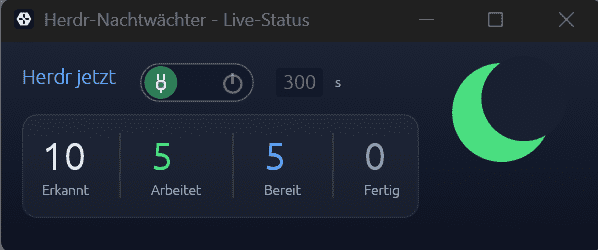
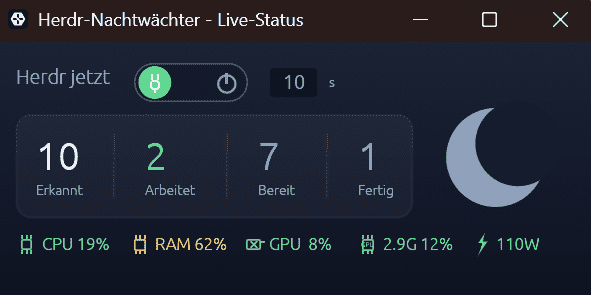
Refresh live status screenshot and telemetry display

diff --git a/src/system_metrics.rs b/src/system_metrics.rs
@@ -23,7 +23,6 @@ use windows_sys::Win32::System::Threading::GetSystemTimes;
 pub struct SystemMetrics {
     pub cpu_percent: Option<u8>,
     pub gpu_percent: Option<u8>,
-    pub vram_used_bytes: Option<u64>,
     pub vram_percent: Option<u8>,
     pub ram_percent: Option<u8>,
     pub gpu_watts: Option<u16>,
@@ -53,7 +52,7 @@ impl Sampler {
     pub fn sample(&mut self) -> SystemMetrics {
         let cpu_percent = sample_cpu(&mut self.cpu_previous);
         let ram_percent = sample_ram();
-        let (gpu_percent, pdh_vram_used_bytes) = self
+        let gpu_percent = self
             .query
             .as_mut()
             .map(PdhQuery::sample)
@@ -63,14 +62,9 @@ impl Sampler {
         let gpu_power_percent = nvidia
             .as_ref()
             .and_then(|telemetry| telemetry.power_percent);
-        let vram_used_bytes = nvidia
-            .as_ref()
-            .and_then(|telemetry| telemetry.vram_used_bytes)
-            .or(pdh_vram_used_bytes);
         SystemMetrics {
             cpu_percent,
             gpu_percent,
-            vram_used_bytes,
             vram_percent: nvidia.as_ref().and_then(|telemetry| telemetry.vram_percent),
             ram_percent,
             gpu_watts,
@@ -82,7 +76,6 @@ impl Sampler {
 struct PdhQuery {
     handle: isize,
     gpu: Option<isize>,
-    vram_used: Option<isize>,
 }
 
 impl PdhQuery {
@@ -96,9 +89,8 @@ impl PdhQuery {
         let query = Self {
             handle,
             gpu: add_counter(handle, r"\GPU Engine(*)\Utilization Percentage"),
-            vram_used: add_counter(handle, r"\GPU Adapter Memory(*)\Dedicated Usage"),
         };
-        if query.gpu.is_none() && query.vram_used.is_none() {
+        if query.gpu.is_none() {
             unsafe { PdhCloseQuery(handle) };
             None
         } else {
@@ -106,17 +98,13 @@ impl PdhQuery {
         }
     }
 
-    fn sample(&mut self) -> (Option<u8>, Option<u64>) {
+    fn sample(&mut self) -> Option<u8> {
         if unsafe { PdhCollectQueryData(self.handle) } != 0 {
-            return (None, None);
+            return None;
         }
 
         let gpu = self.gpu.and_then(read_max);
-        let vram = self
-            .vram_used
-            .and_then(read_sum)
-            .map(|value| value.round().clamp(0.0, u64::MAX as f64) as u64);
-        (gpu.map(percentage), vram)
+        gpu.map(percentage)
     }
 }
 
@@ -140,11 +128,6 @@ fn read_max(counter: isize) -> Option<f64> {
         .into_iter()
         .map(|value| value.max(0.0))
         .max_by(|left, right| left.total_cmp(right))
-}
-
-fn read_sum(counter: isize) -> Option<f64> {
-    let values = formatted_values(counter);
-    (!values.is_empty()).then(|| values.into_iter().map(|value| value.max(0.0)).sum())
 }
 
 fn formatted_values(counter: isize) -> Vec<f64> {
@@ -247,7 +230,6 @@ fn percentage(value: f64) -> u8 {
 struct NvidiaTelemetry {
     power_watts: Option<u16>,
     power_percent: Option<u8>,
-    vram_used_bytes: Option<u64>,
     vram_percent: Option<u8>,
 }
 
@@ -300,7 +282,6 @@ fn read_nvidia_gpu_telemetry() -> Option<NvidiaTelemetry> {
     Some(NvidiaTelemetry {
         power_watts: Some(power_watts.round().clamp(0.0, f64::from(u16::MAX)) as u16),
         power_percent,
-        vram_used_bytes: Some((vram_used_mib * 1024.0 * 1024.0).round() as u64),
         vram_percent,
     })
 }

diff --git a/src/live_status.rs b/src/live_status.rs
@@ -666,55 +666,48 @@ fn metric(ui: &mut egui::Ui, label: &str, value: usize, color: egui::Color32) {
 fn system_metrics_row(ui: &mut egui::Ui, metrics: SystemMetrics) {
     let available = ui.available_width();
     let spacing = 7.0;
-    let mut widths = [64.0, 64.0, 64.0, 72.0, 60.0];
-    let required = widths.iter().sum::<f32>() + spacing * 4.0;
-    if required > available {
-        let scale = ((available - spacing * 4.0) / widths.iter().sum::<f32>()).max(0.8);
-        widths.iter_mut().for_each(|width| *width *= scale);
-    }
+    let item_width = ((available - spacing * 4.0) / 5.0).max(52.0);
     let old_spacing = ui.spacing().item_spacing.x;
     ui.spacing_mut().item_spacing.x = spacing;
     ui.horizontal(|ui| {
         system_metric_badge(
             ui,
-            widths[0],
+            item_width,
             MetricIcon::Cpu,
             "CPU",
-            metrics.cpu_percent.map(|value| format!("{value}%")),
+            metrics.cpu_percent.map(|value| format!("{value:>2}%")),
             metric_color(metrics.cpu_percent),
         );
         system_metric_badge(
             ui,
-            widths[1],
+            item_width,
             MetricIcon::Ram,
             "RAM",
-            metrics.ram_percent.map(|value| format!("{value}%")),
+            metrics.ram_percent.map(|value| format!("{value:>2}%")),
             metric_color(metrics.ram_percent),
         );
         system_metric_badge(
             ui,
-            widths[2],
+            item_width,
             MetricIcon::Gpu,
             "GPU",
-            metrics.gpu_percent.map(|value| format!("{value}%")),
+            metrics.gpu_percent.map(|value| format!("{value:>2}%")),
             metric_color(metrics.gpu_percent),
         );
         system_metric_badge(
             ui,
-            widths[3],
+            item_width,
             MetricIcon::Vram,
             "",
-            metrics
-                .vram_used_bytes
-                .map(|bytes| format_vram(bytes, metrics.vram_percent)),
+            metrics.vram_percent.map(|value| format!("{value:>2}%")),
             metric_color(metrics.vram_percent),
         );
         system_metric_badge(
             ui,
-            widths[4],
+            item_width,
             MetricIcon::Power,
             "",
-            metrics.gpu_watts.map(|value| format!("{value}W")),
+            metrics.gpu_watts.map(|value| format!("{value:>3}W")),
             metric_color(metrics.gpu_power_percent),
         );
     });
@@ -728,22 +721,6 @@ fn metric_color(usage: Option<u8>) -> egui::Color32 {
         Some(_) => PASTEL_GREEN,
         None => GRAY,
     }
-}
-
-fn format_bytes(bytes: u64) -> String {
-    const MIB: f64 = 1024.0 * 1024.0;
-    const GIB: f64 = MIB * 1024.0;
-    let bytes = bytes as f64;
-    if bytes >= GIB {
-        format!("{:.1}G", bytes / GIB)
-    } else {
-        format!("{}M", (bytes / MIB).round() as u64)
-    }
-}
-
-fn format_vram(bytes: u64, percent: Option<u8>) -> String {
-    let size = format_bytes(bytes);
-    percent.map_or(size.clone(), |value| format!("{size} {value}%"))
 }
 
 #[derive(Clone, Copy)]

diff --git a/README.md b/README.md
@@ -61,6 +61,8 @@ For a checkout of this repository, the path normally looks like `/home/your-name
 
 ![Herdr Night Watch live status](docs/images/live-status-de.png)
 
+The live window is intentionally compact: Herdr counts and the night-mode controls remain in the main panel, while the equal-width footer provides a quick hardware glance without affecting the watcher. CPU, RAM, GPU, VRAM utilization, and NVIDIA GPU power use a soft traffic-light palette: green for normal load, pastel yellow for medium load, and pastel red for high load. Missing hardware telemetry is shown as `—` rather than guessed.
+
 ## Usage
 
 - **Start night mode**: continuously monitors all agents currently reported by Herdr and only shuts down Windows after the configured quiet period.
